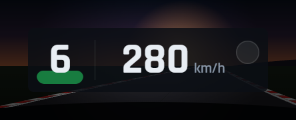
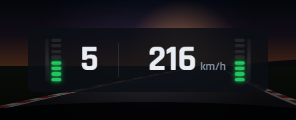
README: Speed layouts, Dashboard configurations, per-car profiles
- New "Dashboard configurations" and "Speed layouts" sections with pictures
  of each, generated by scripts/dash-layouts.js and scripts/speed-layouts.js
  (npm run screenshots:dash / screenshots:speed).
- Overlays table and Customizing describe the new defaults and automatic
  per-car profiles.
- Speed and Dashboard screenshots, GIFs and the hero image regenerated.

Changed region(s): [[0.3953, 0.325, 0.8818, 0.7], [0.1216, 0.35, 0.3345, 0.7], [0.7905, 0.4, 0.8209, 0.425]]

diff --git a/scripts/dash-layouts.js b/scripts/dash-layouts.js
@@ -1,0 +1,99 @@
+/*
+ * Renders a few Dashboard & Inputs configurations side by side from the demo race (played
+ * in real time for a few seconds so the pedal trace has history) into
+ * docs/screenshots/dash-layouts.png for the README.
+ * Usage: npm run screenshots:dash
+ */
+const path = require('path');
+const fs = require('fs');
+const { app, BrowserWindow, ipcMain } = require('electron');
+const Registry = require('../src/shared/registry');
+const { MockSource } = require('../src/main/mock');
+const { RaceModel } = require('../src/main/model');
+const { pickState, DEFAULT_GLOBAL } = require('../test/helpers/demo');
+
+const ROOT = path.join(__dirname, '..');
+const OUT = path.join(ROOT, 'docs', 'screenshots', 'dash-layouts.png');
+const SCALE = 2; // crisp on high-DPI screens; the README shows it at half size
+app.commandLine.appendSwitch('force-device-scale-factor', String(SCALE));
+
+const W = 580;
+const CONFIGS = [
+  ['Default', 'shift lights, gear & speed, pedal trace and bars, wheel', {}],
+  ['Everything on', 'plus RPM number, steering angle and the bottom row', { showRpm: true, showSteerAngle: true, showLapInfo: true, showFuel: true, showBias: true, showWarnings: true, wheelStyle: 'rs50' }],
+  ['Inputs only', 'pedal trace and bars with a formula wheel', { shiftLights: false, slipLight: false, showGear: false, showRpmBar: false, wheelStyle: 'formula' }],
+  ['No wheel', 'revs, speed and pedals, with steering in the trace', { showSteering: false, showSteerTrace: true }],
+];
+const PLAY_SECONDS = 9;
+
+const def = Registry.byId('dash');
+const payloads = new Map();
+ipcMain.handle('overlay:init', (e) => payloads.get(e.sender.id));
+ipcMain.handle('overlay:getBounds', (e) => BrowserWindow.fromWebContents(e.sender).getBounds());
+// "shrink box height to fit" asks for its height: give it, so every config is as tall as its contents
+ipcMain.on('overlay:setBounds', (e, id, b) => { const w = BrowserWindow.fromWebContents(e.sender); if (w) w.setSize(W, Math.round(b.height)); });
+const sleep = (ms) => new Promise((r) => setTimeout(r, ms));
+
+app.whenReady().then(async () => {
+  // demo race at a moment with a braking zone (and a lock-up) followed by wheelspin on the exit
+  const mock = new MockSource();
+  const model = new RaceModel({ trackMaps: {} });
+  const g = { ...DEFAULT_GLOBAL };
+  let state = null;
+  mock.fastForward(Number(process.env.IRO_DEMO_SKIP || 283), (f) => { const st = model.update(f, g); if (st) state = st; });
+
+  const wins = [];
+  for (const [, , patch] of CONFIGS) {
+    const settings = Object.assign(Registry.defaultSettingsFor(def), { fitHeight: true }, patch, { bounds: { x: 0, y: 0, width: W, height: 100 } });
+    const win = new BrowserWindow({
+      x: -30000, y: -30000, width: W, height: 100, show: true, skipTaskbar: true, transparent: true, frame: false, backgroundColor: '#00000000',
+      webPreferences: { preload: path.join(ROOT, 'src', 'preload.js'), contextIsolation: true, backgroundThrottling: false },
+    });
+    payloads.set(win.webContents.id, { id: 'dash', settings, theme: Registry.THEMES.carbon, global: g, editMode: false });
+    await win.loadFile(path.join(ROOT, 'src', 'renderer', 'overlay.html'), { query: { id: 'dash' } });
+    wins.push(win); // kept open: overlays share a renderer process and destroying one aborts the next load
+  }
+  await sleep(300);
+  for (let t = 0; t < PLAY_SECONDS * 1000; t += 33) { // real time: the trace is timed by the renderer's clock
+    const tick = Date.now();
+    state = model.update(mock.step(0.033), g) || state;
+    for (const w of wins) w.webContents.send('overlay:state', pickState(state, def.needs));
+    await sleep(Math.max(0, 33 - (Date.now() - tick)));
+  }
+  for (const w of wins) await w.webContents.executeJavaScript(`document.querySelectorAll('*').forEach((e) => { e.style.animation = 'none'; }); 1`);
+  await sleep(80);
+  const shots = [];
+  for (const w of wins) {
+    const img = await w.webContents.capturePage();
+    shots.push({ url: img.toDataURL(), h: w.getSize()[1] });
+  }
+
+  const page = new BrowserWindow({ show: false, webPreferences: { offscreen: true } });
+  await page.loadURL('data:text/html,<body></body>');
+  const data = await page.webContents.executeJavaScript(`(async () => {
+    const S = ${SCALE}, shots = ${JSON.stringify(shots)}, configs = ${JSON.stringify(CONFIGS.map((c) => [c[0], c[1]]))};
+    const lw = 230, gap = 22, top = 18;
+    const H = top + shots.reduce((a, s) => a + s.h + gap, 0);
+    const c = document.createElement('canvas'); c.width = (lw + ${W} + 24) * S; c.height = H * S;
+    const g = c.getContext('2d'); g.scale(S, S);
+    const bg = g.createLinearGradient(0, 0, c.width / S, H);
+    bg.addColorStop(0, '#1b2438'); bg.addColorStop(1, '#3a2c36');
+    g.fillStyle = bg; g.fillRect(0, 0, c.width / S, H);
+    let y = top;
+    for (const [i, s] of shots.entries()) {
+      g.fillStyle = '#e2e8f0'; g.font = '700 15px "Segoe UI", sans-serif';
+      g.fillText(configs[i][0], 16, y + s.h / 2 - 4);
+      g.fillStyle = '#94a3b8'; g.font = '13px "Segoe UI", sans-serif';
+      const words = configs[i][1].split(' '); let line = '', ly = y + s.h / 2 + 14;
+      for (const w of words) { if (g.measureText(line + w).width > lw - 30) { g.fillText(line, 16, ly); line = ''; ly += 16; } line += w + ' '; }
+      g.fillText(line, 16, ly);
+      const im = new Image(); im.src = s.url; await im.decode();
+      g.drawImage(im, lw, y, ${W}, s.h);
+      y += s.h + gap;
+    }
+    return c.toDataURL('image/png');
+  })()`);
+  fs.writeFileSync(OUT, Buffer.from(data.split(',')[1], 'base64'));
+  console.log('wrote', OUT);
+  app.quit();
+});

diff --git a/scripts/speed-layouts.js b/scripts/speed-layouts.js
@@ -1,0 +1,88 @@
+/*
+ * Renders the Speed overlay in each layout at a few set moments (mid revs, shift point,
+ * wheelspin, lock-up) into docs/screenshots/speed-layouts.png for the README.
+ * Usage: npm run screenshots:speed
+ */
+const path = require('path');
+const fs = require('fs');
+const { app, BrowserWindow, ipcMain } = require('electron');
+const Registry = require('../src/shared/registry');
+const { demoRace, pickState } = require('../test/helpers/demo');
+
+const ROOT = path.join(__dirname, '..');
+const OUT = path.join(ROOT, 'docs', 'screenshots', 'speed-layouts.png');
+const SCALE = 2; // crisp on high-DPI screens; the README shows it at half size
+app.commandLine.appendSwitch('force-device-scale-factor', String(SCALE));
+
+const MOMENTS = [
+  ['Mid revs', { gear: 4, rpm: 7250, speed: 52 }],
+  ['Shift now', { gear: 4, rpm: 8050, speed: 58 }],
+  ['Wheelspin', { gear: 2, rpm: 6900, speed: 24, throttle: 1, slip: { learned: true, dev: 0.15, abs: false } }],
+  ['Lock-up', { gear: 3, rpm: 5200, speed: 30, brake: 1, slip: { learned: true, dev: -0.25, abs: false } }],
+];
+const LAYOUTS = [['rails', 'Side lights'], ['strip', 'Light strip'], ['classic', 'Classic']];
+const W = 270; // overlay width, px
+
+const race = demoRace();
+const def = Registry.byId('speed');
+const payloads = new Map();
+ipcMain.handle('overlay:init', (e) => payloads.get(e.sender.id));
+ipcMain.handle('overlay:getBounds', (e) => BrowserWindow.fromWebContents(e.sender).getBounds());
+ipcMain.on('overlay:setBounds', () => {});
+const sleep = (ms) => new Promise((r) => setTimeout(r, ms));
+
+async function shoot(layout, player) {
+  const h = layout === 'strip' ? 84 : 70;
+  const settings = Object.assign(Registry.defaultSettingsFor(def), { layout, bounds: { x: 0, y: 0, width: W, height: h } });
+  const win = new BrowserWindow({
+    x: -30000, y: -30000, width: W, height: h, show: true, skipTaskbar: true, transparent: true, frame: false, backgroundColor: '#00000000',
+    webPreferences: { preload: path.join(ROOT, 'src', 'preload.js'), contextIsolation: true, backgroundThrottling: false },
+  });
+  payloads.set(win.webContents.id, { id: 'speed', settings, theme: Registry.THEMES.carbon, global: race.global, editMode: false });
+  await win.loadFile(path.join(ROOT, 'src', 'renderer', 'overlay.html'), { query: { id: 'speed' } });
+  await sleep(400);
+  const st = structuredClone(race.state);
+  Object.assign(st.player, { throttle: 0, brake: 0, slip: { learned: true, dev: 0, abs: false } }, player);
+  for (let i = 0; i < 5; i++) { win.webContents.send('overlay:state', pickState(st, def.needs)); await sleep(60); }
+  // stop the strobes on their lit phase so the picture shows them
+  await win.webContents.executeJavaScript(`document.querySelectorAll('*').forEach((e) => { e.style.animation = 'none'; }); 1`);
+  await sleep(100);
+  const img = await win.webContents.capturePage();
+  // keep the window open: overlays share a renderer process and destroying one aborts the next load
+  return { url: img.toDataURL(), h };
+}
+
+app.whenReady().then(async () => {
+  const rows = [];
+  for (const [layout, name] of LAYOUTS) {
+    const shots = [];
+    for (const [, player] of MOMENTS) shots.push(await shoot(layout, player));
+    rows.push({ name, shots });
+  }
+  const page = new BrowserWindow({ show: false, webPreferences: { offscreen: true } });
+  await page.loadURL('data:text/html,<body></body>');
+  const data = await page.webContents.executeJavaScript(`(async () => {
+    const S = ${SCALE}, rows = ${JSON.stringify(rows)}, moments = ${JSON.stringify(MOMENTS.map((m) => m[0]))};
+    const lw = 120, cw = ${W} + 24, rh = 108, top = 44;
+    const c = document.createElement('canvas');
+    c.width = (lw + cw * moments.length + 12) * S; c.height = (top + rh * rows.length + 8) * S;
+    const g = c.getContext('2d'); g.scale(S, S);
+    const bg = g.createLinearGradient(0, 0, c.width / S, c.height / S);
+    bg.addColorStop(0, '#1b2438'); bg.addColorStop(1, '#3a2c36');
+    g.fillStyle = bg; g.fillRect(0, 0, c.width / S, c.height / S);
+    g.font = '600 15px "Segoe UI", sans-serif'; g.fillStyle = '#94a3b8';
+    moments.forEach((m, i) => g.fillText(m, lw + i * cw + 12, 28));
+    for (const [r, row] of rows.entries()) {
+      g.fillStyle = '#e2e8f0'; g.font = '700 15px "Segoe UI", sans-serif';
+      g.fillText(row.name, 16, top + r * rh + rh / 2 + 5);
+      for (const [i, s] of row.shots.entries()) {
+        const im = new Image(); im.src = s.url; await im.decode();
+        g.drawImage(im, lw + i * cw + 12, top + r * rh + (rh - s.h) / 2, ${W}, s.h);
+      }
+    }
+    return c.toDataURL('image/png');
+  })()`);
+  fs.writeFileSync(OUT, Buffer.from(data.split(',')[1], 'base64'));
+  console.log('wrote', OUT);
+  app.quit();
+});

diff --git a/README.md b/README.md
@@ -54,8 +54,8 @@ Standings, relative, dashboard & inputs, lap timing, fuel, delta, an auto-learne
 </p>
 
 <p align="center">
-  <img src="docs/gifs/speed.gif" width="300" alt="Speed overlay: gear with a rev indicator rising behind it, speed, and the wheelspin / lock-up lamp"><br>
-  <sub><b>Speed:</b> just speed and gear. The background behind the gear rises with RPM and blinks at the shift point; the lamp shows SPIN / LOCK.</sub>
+  <img src="docs/gifs/speed.gif" width="300" alt="Speed overlay: rev lights on both sides filling with RPM and strobing at the shift point, lanes strobing on wheelspin and lock-up"><br>
+  <sub><b>Speed:</b> just speed and gear. The side lights fill with RPM and strobe when it's time to shift; the thin outer lanes strobe amber on wheelspin and red on a lock-up.</sub>
 </p>
 
 <p align="center">
@@ -157,14 +157,43 @@ and show again when you drive.
 |---|---|
 | **Standings** | Multiclass grouping with class SOF, **country flags**, gap/interval, last/best lap (purple = fastest), iRating, license/SR, **estimated iRating +/-**, positions gained, pit stops, and "keep my car visible". **Off by default**; turn it on in settings |
 | **Relative** | Cars around you by live time gap, **country flags**, lapping/lapped colors, pit tags, cars grouped by class in multiclass races (the nearest cars always stay in view), gaps from iRacing's estimate like the sim's own relative or measured from recent pace, and an info bar (position, SOF, incidents, time left) |
-| **Dashboard & Inputs** | Car-specific shift lights with a bright blue over-rev strobe (you choose where it starts), gear, speed, RPM, a throttle/brake/clutch trace, pedal bars, a steering wheel, lap/last/best/delta, fuel, brake bias, engine warnings, pit limiter, and a **wheelspin / lock-up light** that strobes while you're slipping, with the brake trace turning yellow where a wheel locked. Every part can be switched off |
-| **Speed** | Just speed and gear, with a rev indicator behind the gear (rises with RPM, blinks at the shift point) and a wheelspin / lock-up lamp |
+| **Dashboard & Inputs** | Car-specific shift lights with a bright blue over-rev strobe (you choose where it starts), gear, speed, an RPM bar, a throttle/brake/clutch trace, pedal bars, a steering wheel, and a **wheelspin / lock-up light** that strobes while you're slipping, with the brake trace turning yellow where a wheel locked. Optional: the RPM number and a bottom row with lap/last/best/delta, fuel, brake bias, engine warnings and pit limiter (off by default). Every part can be switched off |
+| **Speed** | Just speed and gear, in three layouts. **Side lights** (default): rev lights on both sides fill green to red with RPM and strobe when it's time to shift, with thin outer lanes that strobe amber on wheelspin and red on a lock-up. **Light strip**: the same rev lights as one bar underneath, and the speed turns amber or red while you slip. **Classic**: a rev indicator behind the gear and a round wheelspin / lock-up lamp |
 | **Lap Timing** | Live sector times (green = personal best, purple = class best), last/best/optimal lap, and a lap log with sectors, delta, fuel used, and off-track/pit markers |
 | **Fuel Calculator** | Average, last and max fuel per lap (green-flag laps only), laps left, fuel to finish with a safety margin, amount to add, stops needed |
 | **Delta Bar** | Live delta to your best, optimal, session best or last lap, predicted lap time, a **sector delta bar** (time gained or lost in the current sector alone), and gap bars to the cars directly ahead and behind that turn green while you gain and red while you lose. In races these are the class cars physically ahead and behind you on track, so after a spin they update at once instead of waiting for the next timing line |
 | **Track Map** | **Learned automatically** from your first clean lap, then saved for that track. Shows every car in class colors, cars in the pits and the start/finish line. **Off by default**; turn it on in settings |
 | **Session Info** | Session, time or laps left, lap, position, incidents vs limit, SOF, temperatures, track wetness, local and sim time. **Off by default**; turn it on in settings |
 | **Flags** | A big flag indicator: checkered, red, black, meatball, caution, debris, yellow, blue, white, one-to-green and green. **Off by default**; turn it on in settings |
+
+### Dashboard configurations
+
+Dashboard & Inputs is built from blocks you switch on or off in its settings, and the rest of the overlay
+reflows to fill the space. A few examples:
+
+![Dashboard & Inputs configurations: default, everything on, inputs only, and no wheel](docs/screenshots/dash-layouts.png)
+
+- **Default:** shift lights with the wheelspin / lock-up light, gear and speed with an RPM bar, the pedal trace,
+  pedal bars and a steering wheel.
+- **Everything on:** adds the RPM number, the steering angle and the bottom row (lap, last, best, delta, fuel,
+  brake bias, engine warnings and pit limiter). The bottom row and the RPM number are off by default.
+- **Inputs only:** just the pedal trace and bars with a wheel. Six wheel styles to choose from.
+- **No wheel:** revs, speed and pedals, with the steering drawn as a line in the trace instead.
+
+### Speed layouts
+
+The Speed overlay comes in three layouts. Pick one in its settings under **Layout**.
+
+![Speed overlay layouts: side lights, light strip and classic, at mid revs, at the shift point, in wheelspin and in a lock-up](docs/screenshots/speed-layouts.png)
+
+- **Side lights** (default): a rev light on each side fills green, yellow, then red as the RPM rises, and both
+  strobe blue when it's time to shift. A thin lane on the outer edge of each light strobes **amber on
+  wheelspin** and **red on a lock-up**.
+- **Light strip:** the same rev lights as one bar under the speed. While you slip, the speed turns amber or red.
+- **Classic:** a rev indicator rising behind the gear, and a round wheelspin / lock-up lamp.
+
+In every layout you choose where the shift strobe starts (the same choices as the Dashboard), and the SPIN / LOCK
+text can be switched off.
 
 ## Customizing
 
@@ -177,6 +206,12 @@ Every change you make is saved right away and kept after updates.
 - **Themes:** five built-in themes. You can change any color, the font and the corner rounding.
 - **Layouts & profiles:** save different layouts (for example road, oval, streaming) and switch between them
   from the tray or with a hotkey. You can export a profile to share it or move it to another PC.
+- **A profile per car, automatically:** in a car you haven't set up yet, you drive with the default profile. The
+  first time you change something in that car (move, resize or set up an overlay), Slipstream copies the default
+  into a new profile named after the car and keeps your change there, so the default stays as it was. Next time
+  you get in that car, its profile loads by itself. *Layouts & profiles* shows the current car and which profile
+  it uses, lets you pick a different profile for any car, and has a switch to turn this off. A profile you pick by
+  hand stays until you change car.
 - **Backups:** a backup of your settings is made every time Slipstream starts (the last 15 are kept). Restore
   one from *Layouts & profiles*.
 - **Units** follow your iRacing setting, or can be set to metric or imperial.

diff --git a/docs/DEVELOPMENT.md b/docs/DEVELOPMENT.md
@@ -12,6 +12,8 @@ npm run check         # self-test: fake iRacing memory map → reader → model
 npm test              # unit tests (node:test + jsdom): main logic, config, every overlay widget, settings UI
 npm run dist          # build installer + portable exe into dist/
 npm run screenshots   # regenerate docs/screenshots
+npm run screenshots:speed  # regenerate docs/screenshots/speed-layouts.png (Speed in every layout)
+npm run screenshots:dash   # regenerate docs/screenshots/dash-layouts.png (a few Dashboard configurations)
 npm run gifs          # regenerate docs/gifs (scripted demo drive, captured off-screen)
 npx electron scripts/build-flags.js   # re-render country flags (flag-icons) to src/renderer/flags
 IRO_RELLOG=1 npm start               # log what the Relative is built from to <userData>/relative-log.jsonl
